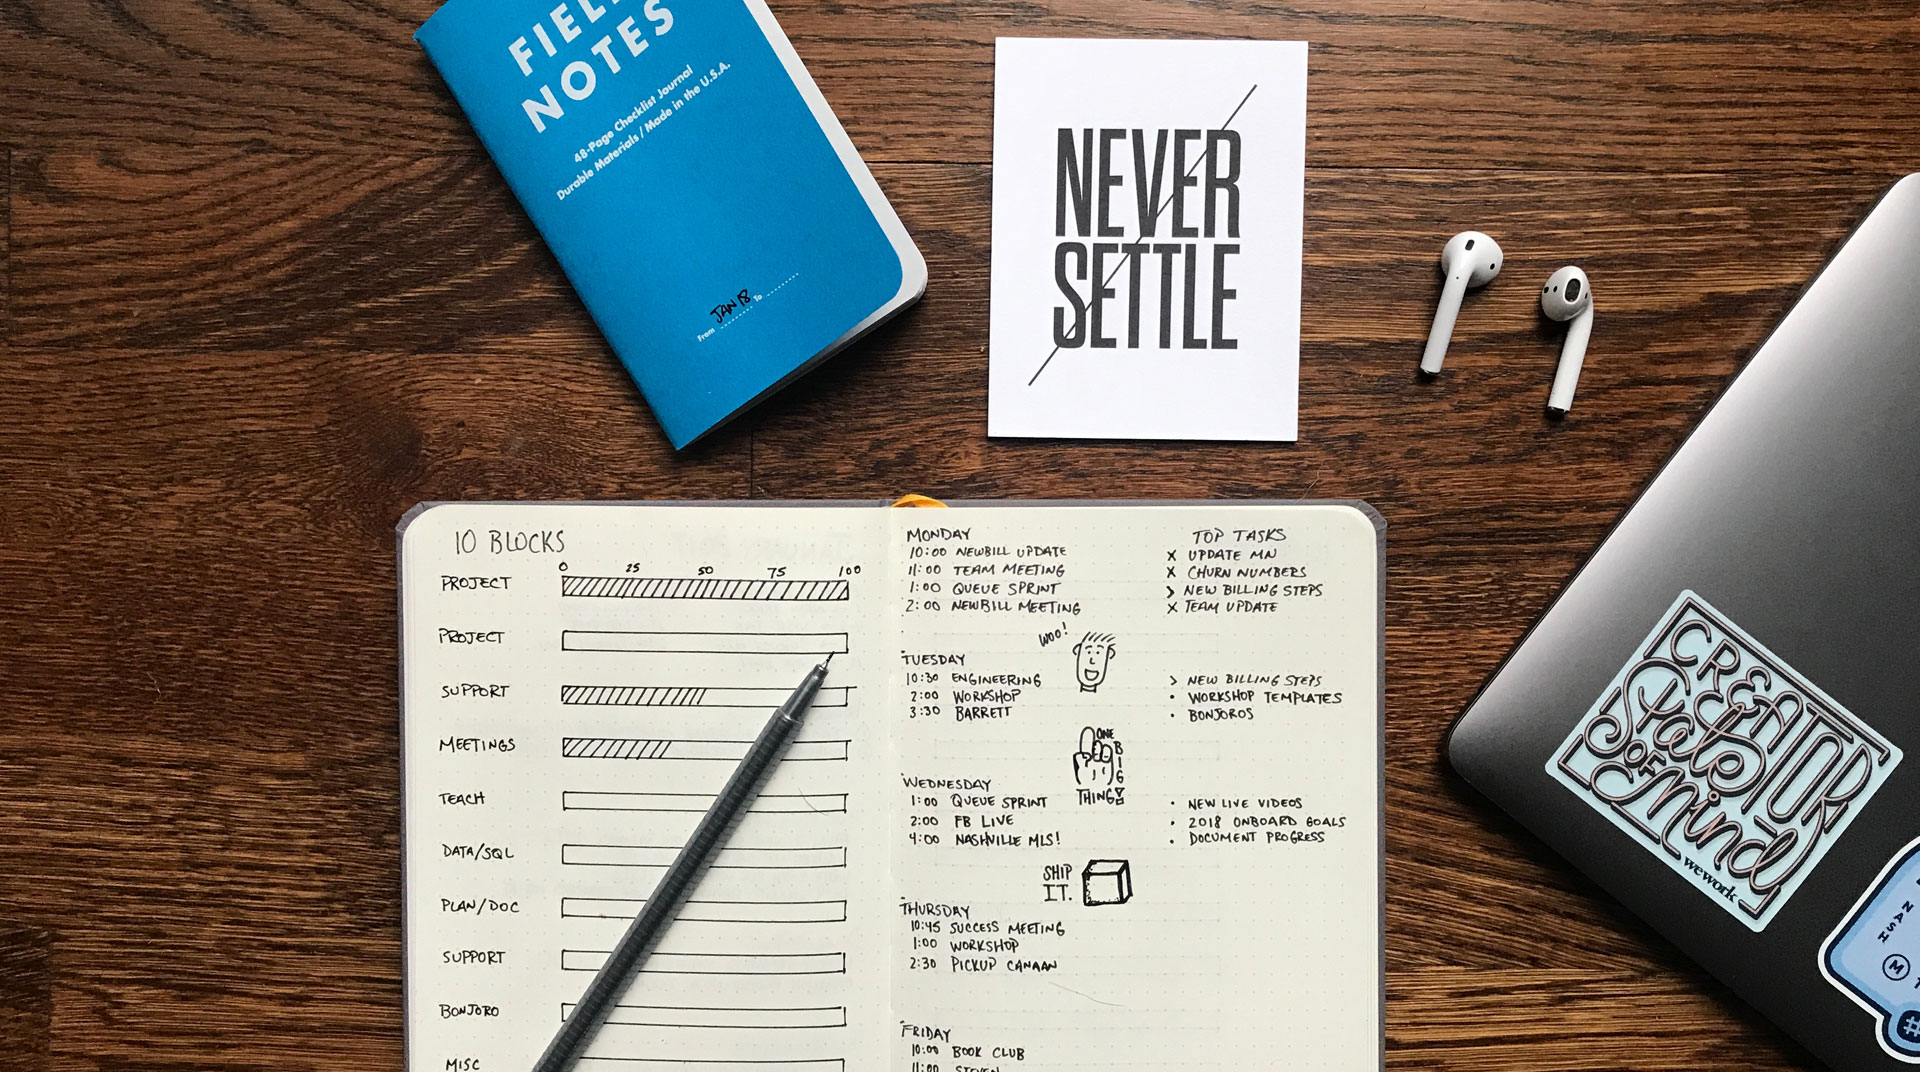
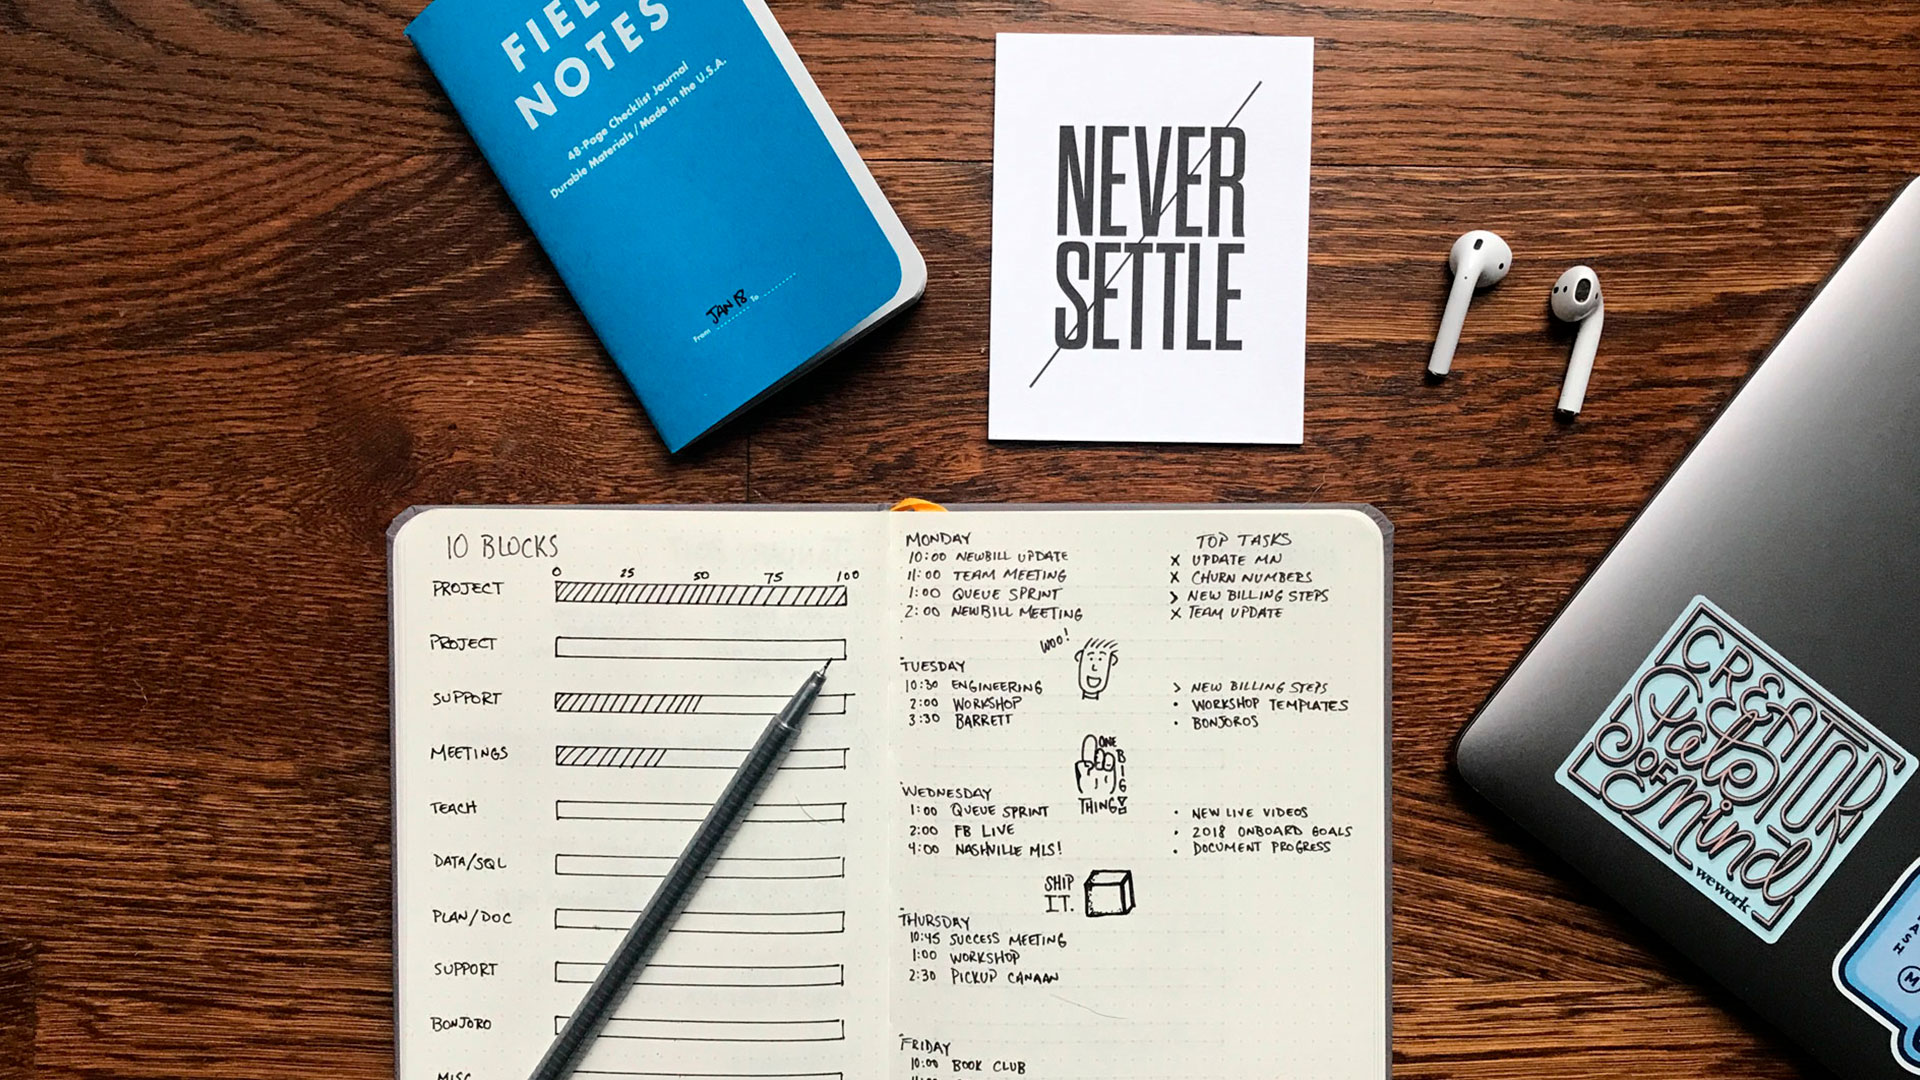
Утранение бага при обновлении страницы
- Опция отправки email.
- Изменение размера картинки.

diff --git a/server/controllers/auth.js b/server/controllers/auth.js
@@ -49,7 +49,9 @@ module.exports = {
             }
         }
 
-        mailer.welcome(user.email, user._id);
+        if (config.sendMail) {
+            mailer.welcome(user.email, user._id);
+        }
 
         let userSendObj = {
             id: user.id,
@@ -200,8 +202,6 @@ module.exports = {
                 }
             });
         }
-
-        console.log(await user.comparePassword(password));
 
         if (!await user.comparePassword(password)) {
             return res.json({

diff --git a/client/src/routers.js b/client/src/routers.js
@@ -12,14 +12,14 @@ import { store } from './store';
 Vue.use(VueRouter);
 
 function ifNotAuthenticated(to, from, next) {
-  if (store.getters.isAuthenticated) {
+  if (store.getters.isAuthenticated || localStorage.getItem('token')) {
     return next();
   }
   next('/login');
 }
 
 function ifAuthenticated(to, from, next) {
-  if (!store.getters.isAuthenticated) {
+  if (!store.getters.isAuthenticated || !localStorage.getItem('token')) {
     return next();
   }
   next('/catalogs');

diff --git a/server/config/index.example.js b/server/config/index.example.js
@@ -2,6 +2,7 @@ module.exports = {
     site: 'http://localhost:8080',
     port: 4040,
     mongodbUrl: 'mongodb://localhost:27017/ProductCostCalculator',
+    sendMail: false,
     mailOptions: {
         service: 'Yandex',
         auth: {
